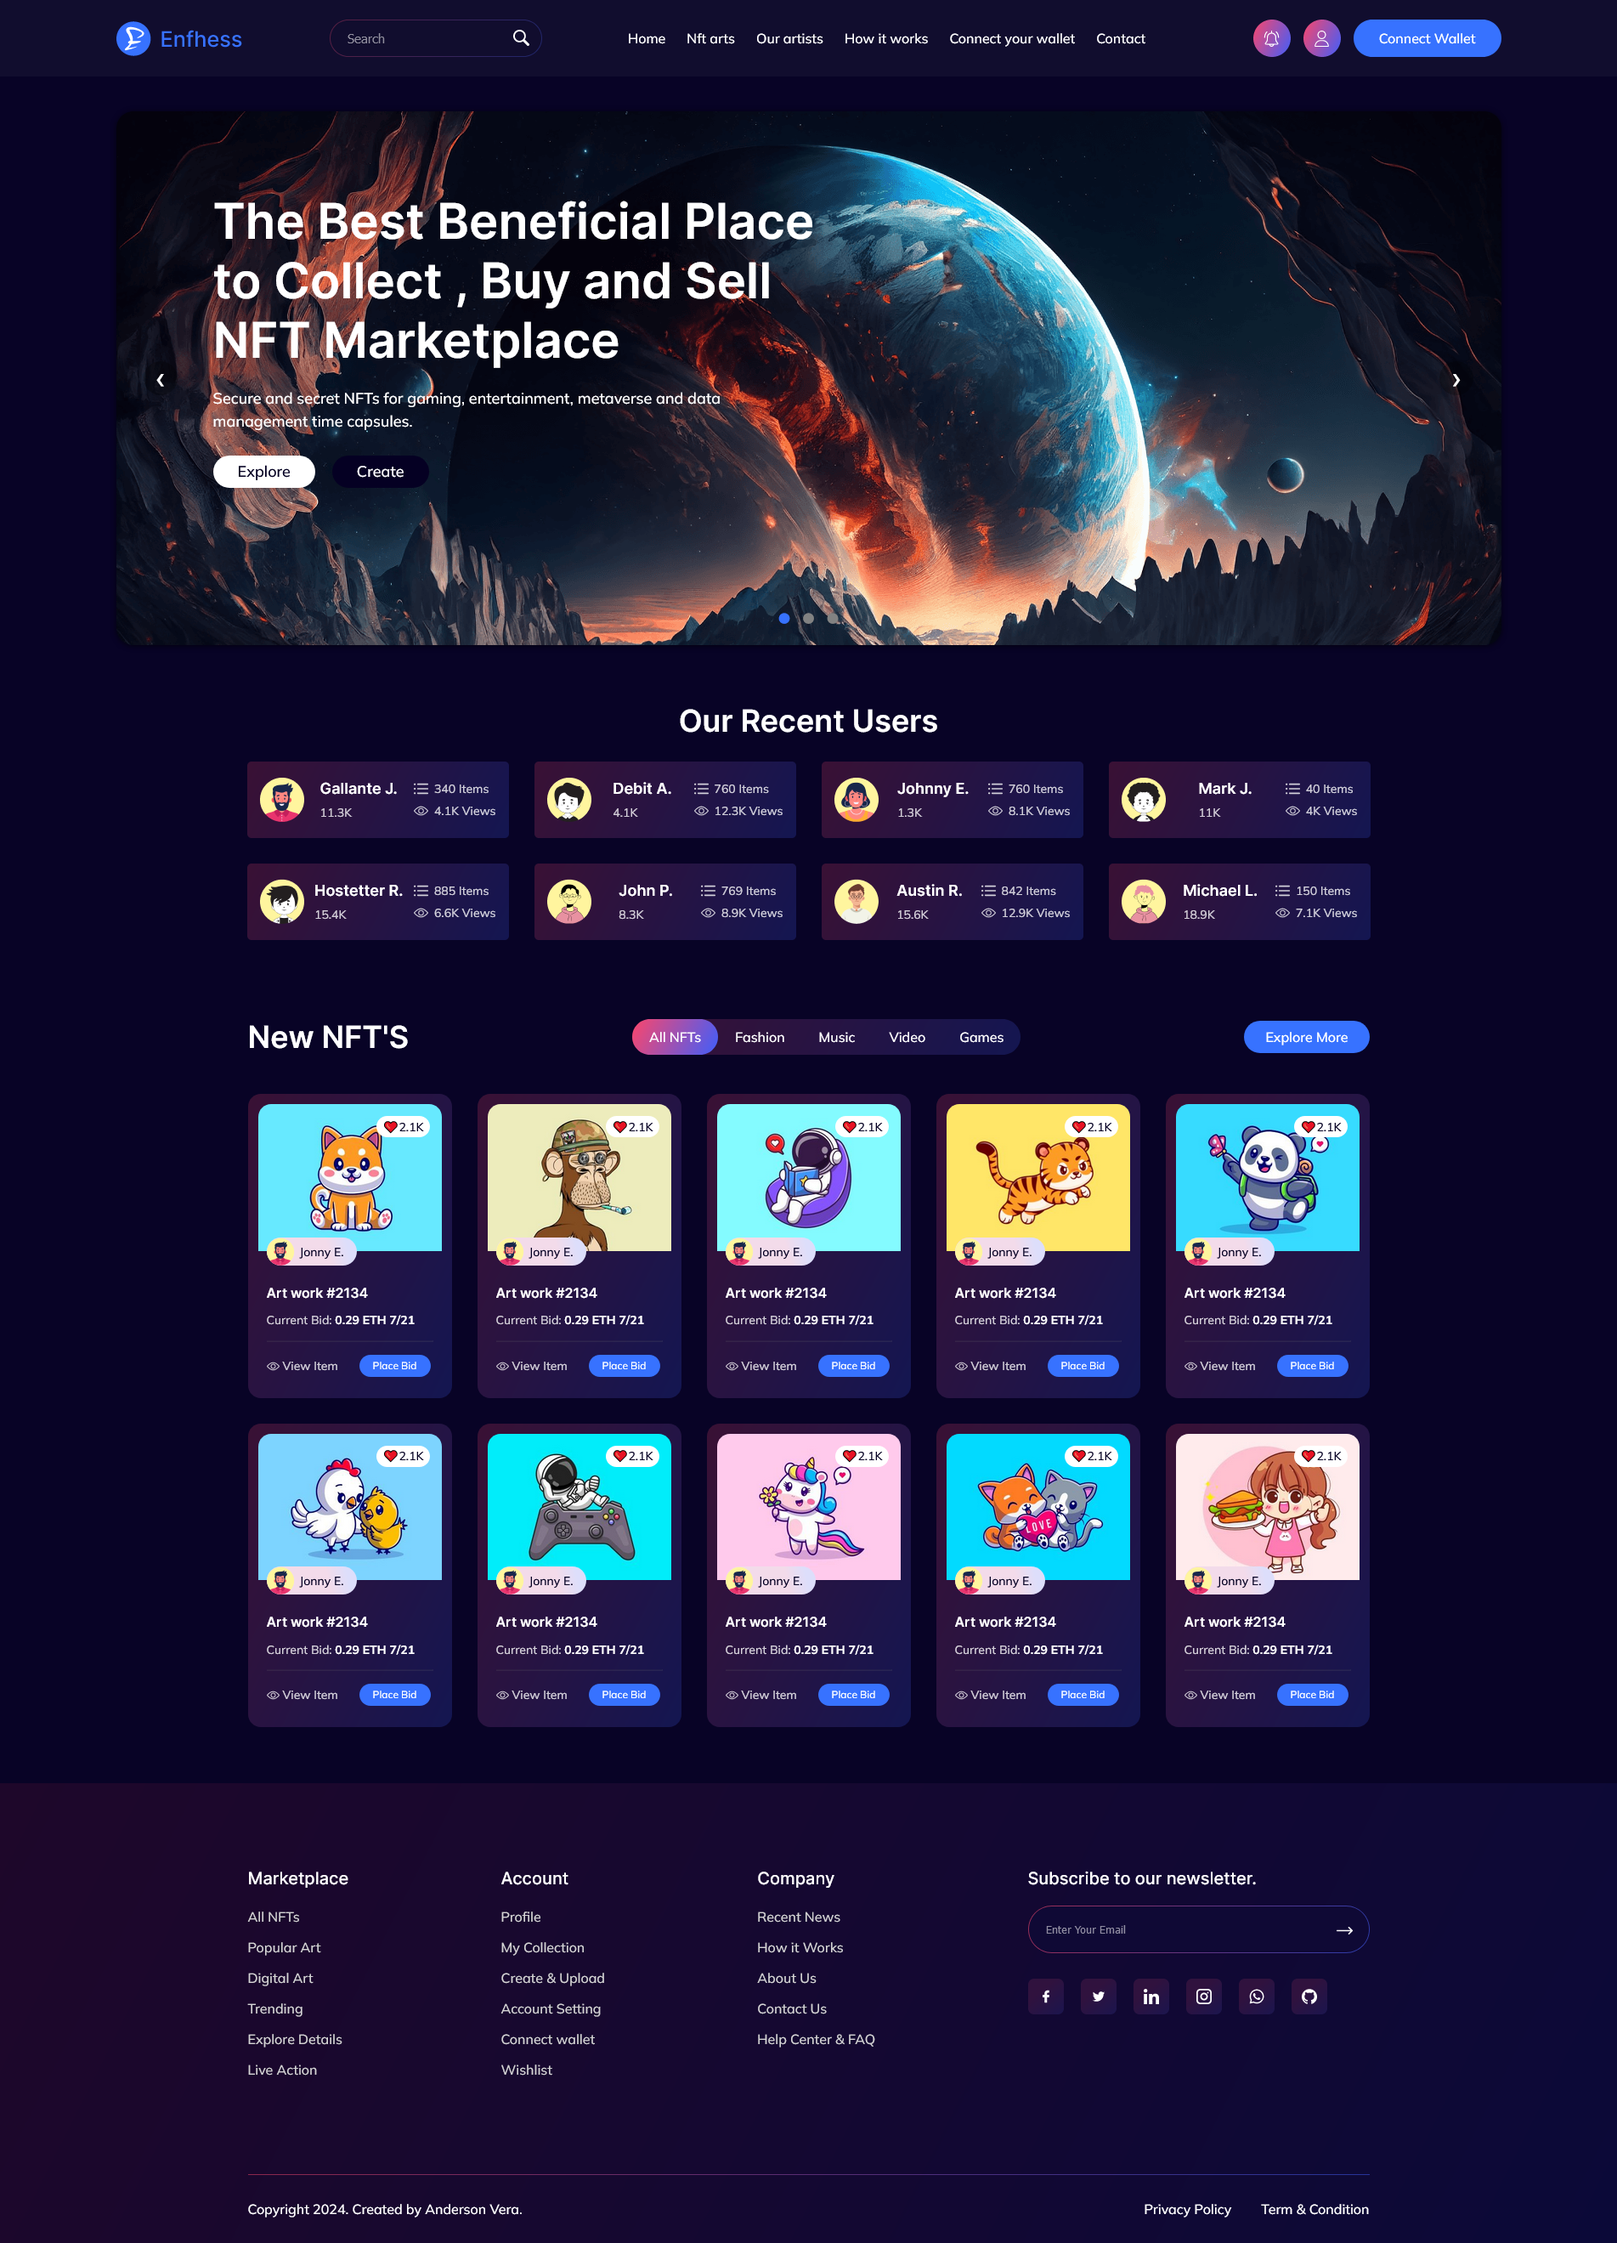
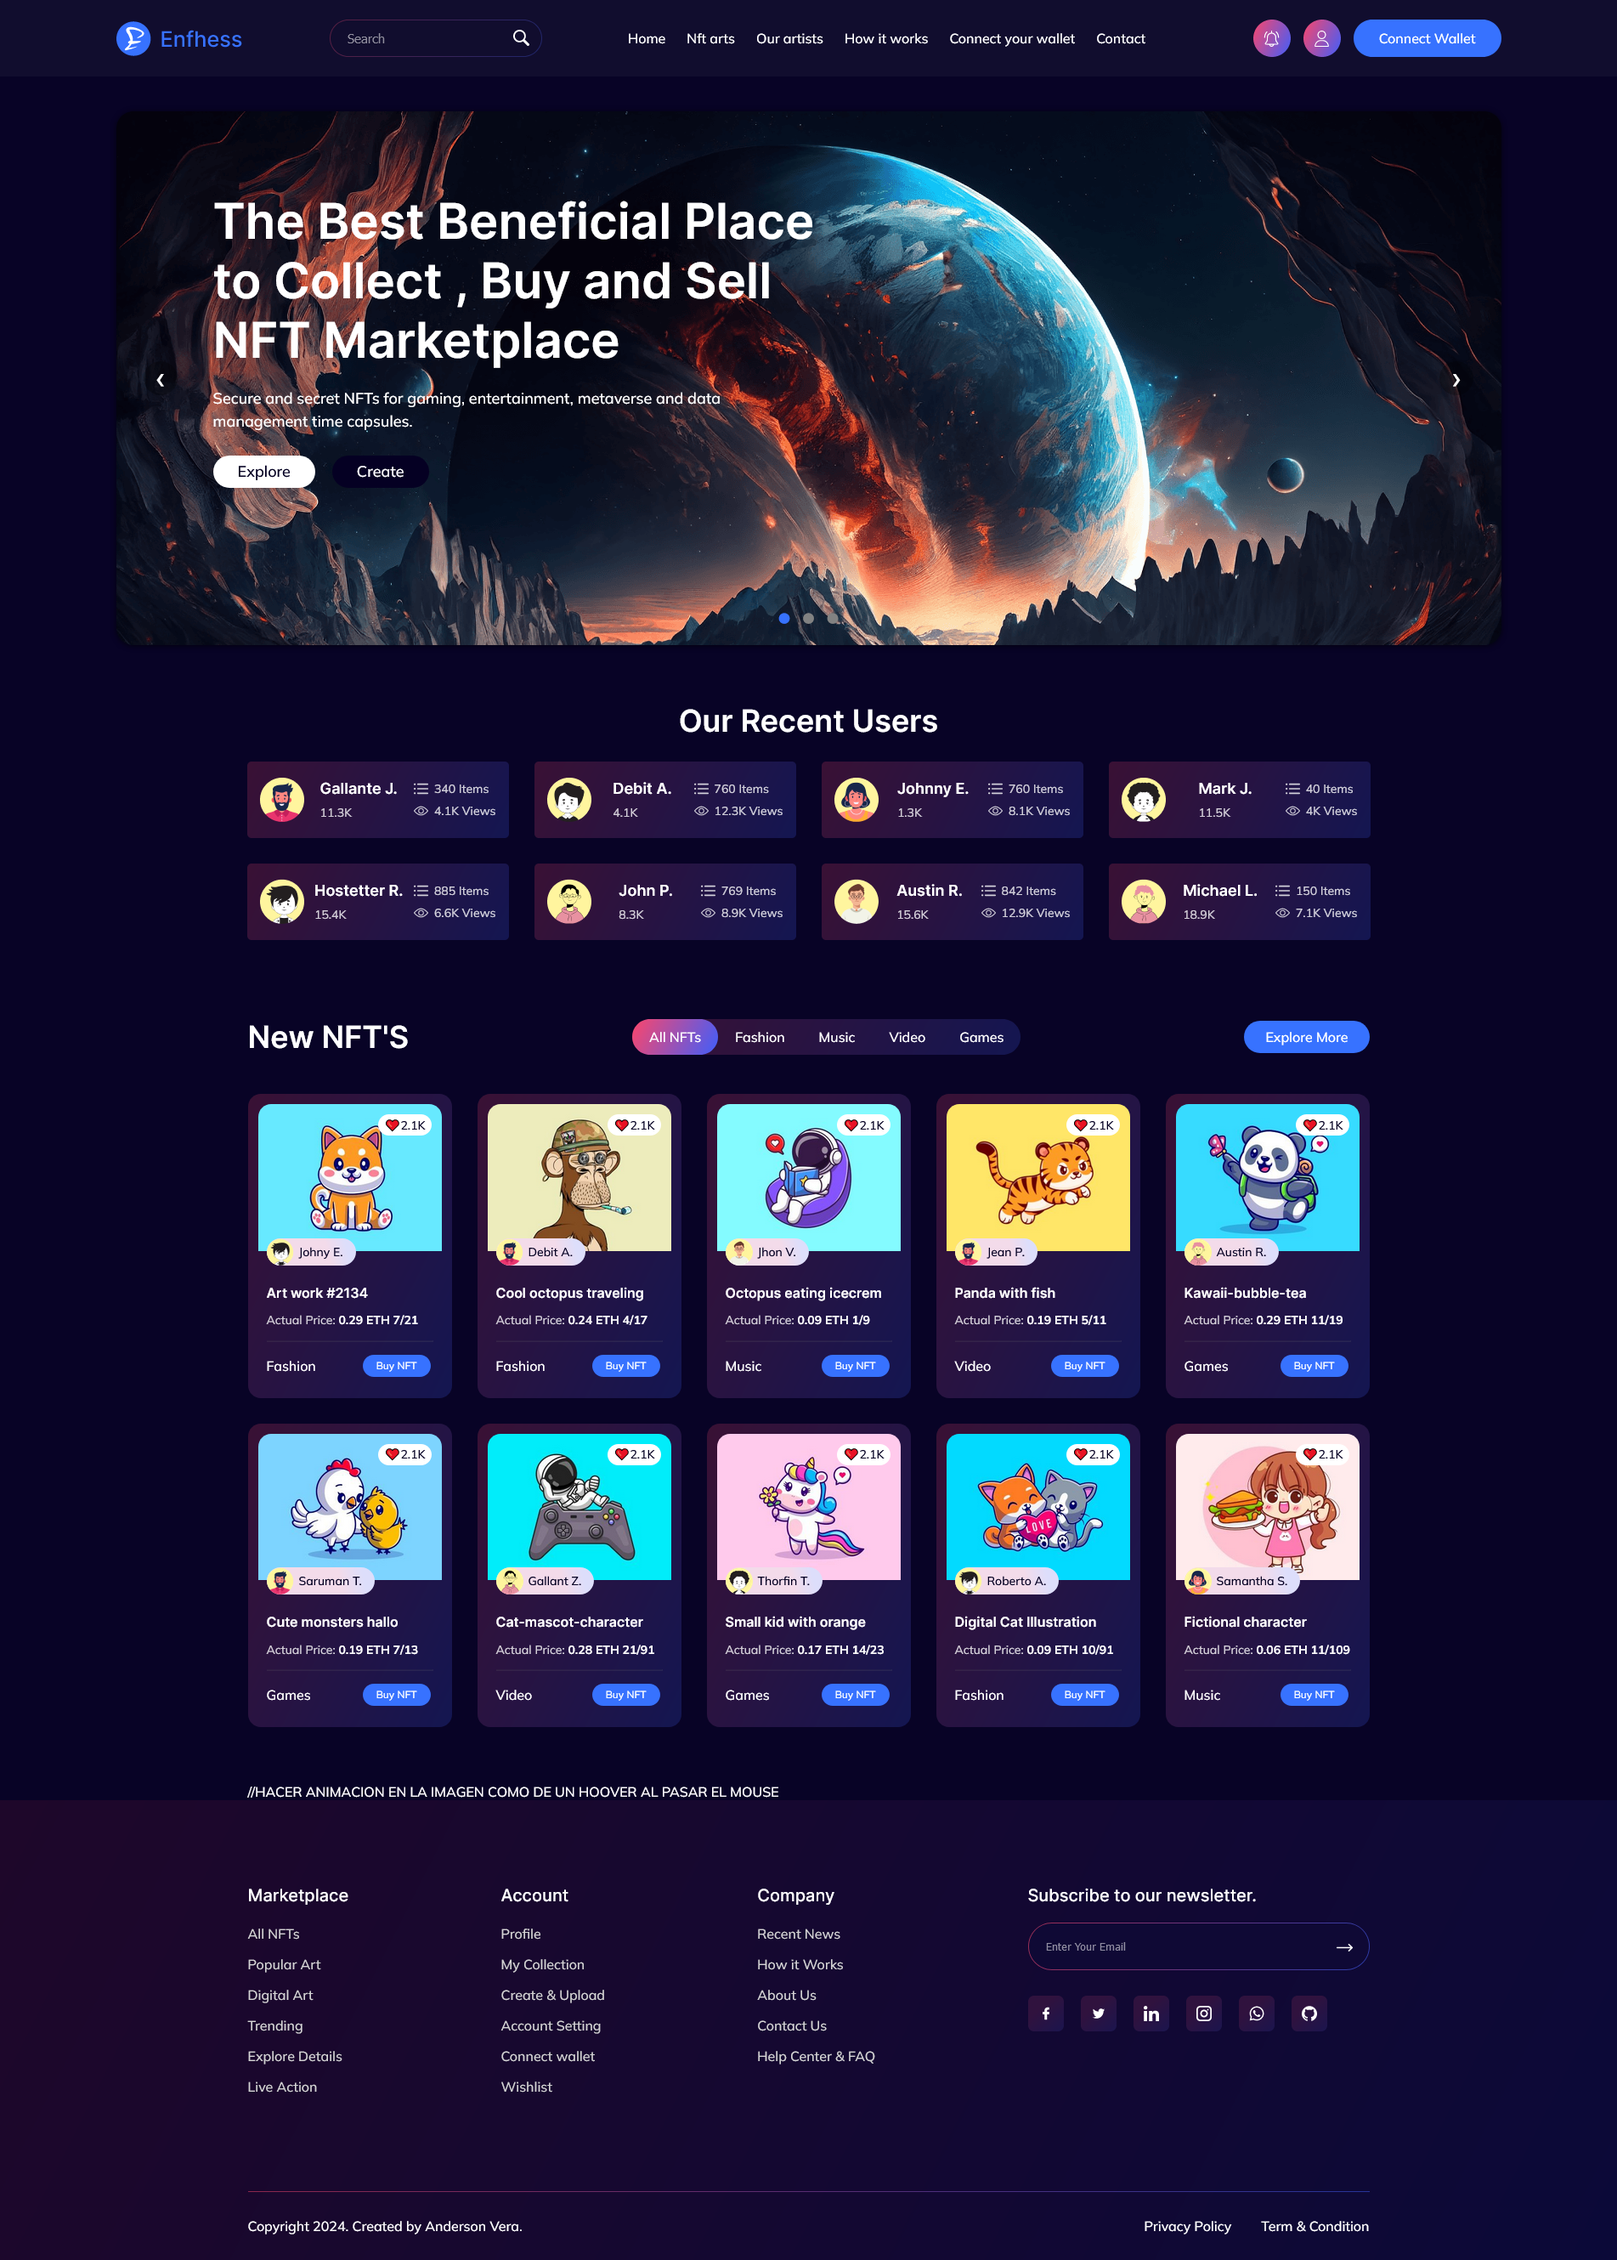
some modifications en recent users component

diff --git a/src/app/home/services/gallery-new-nfts.service.ts b/src/app/home/services/gallery-new-nfts.service.ts
@@ -8,14 +8,14 @@ export class GalleryNewNftsService {
   private images: NewNft[] = [
     { id: 1, title: 'Art work #2134', category: 'Fashion', url: '../../../../assets/1.jpeg', price: '0.29 ETH 7/21', user: 'Johny E.', avatar: '../../../../assets/avatar_13.png' },
     { id: 2, title: 'Cool octopus traveling', category: 'Fashion', url: '../../../../assets/2.jpeg', price: '0.24 ETH 4/17', user: 'Debit A.', avatar: '../../../../assets/avatar_12.png' },
-    { id: 3, title: 'Octopus eating icecrem', category: 'Music', url: '../../../../assets/3.jpeg', price: '0.09 ETH 1/9', user: 'Jhon V.', avatar: '../../../../assets/avatar_13.png' },
+    { id: 3, title: 'Octopus eating icecrem', category: 'Music', url: '../../../../assets/3.jpeg', price: '0.09 ETH 1/9', user: 'Jhon V.', avatar: '../../../../assets/avatar_36.png' },
     { id: 4, title: 'Panda with fish', category: 'Video', url: '../../../../assets/4.jpeg', price: '0.19 ETH 5/11', user: 'Jean P.', avatar: '../../../../assets/avatar_12.png' },
-    { id: 5, title: 'Kawaii-bubble-tea', category: 'Games', url: '../../../../assets/5.jpeg', price: '0.29 ETH 11/19', user: 'Austin R.', avatar: '../../../../assets/avatar_13.png' },
+    { id: 5, title: 'Kawaii-bubble-tea', category: 'Games', url: '../../../../assets/5.jpeg', price: '0.29 ETH 11/19', user: 'Austin R.', avatar: '../../../../assets/avatar_37.png' },
     { id: 6, title: 'Cute monsters hallo', category: 'Games', url: '../../../../assets/6.jpeg', price: '0.19 ETH 7/13', user: 'Saruman T.', avatar: '../../../../assets/avatar_12.png' },
-    { id: 7, title: 'Cat-mascot-character', category: 'Video', url: '../../../../assets/7.jpeg', price: '0.28 ETH 21/91', user: 'Gallant Z.', avatar: '../../../../assets/avatar_13.png' },
-    { id: 8, title: 'Small kid with orange', category: 'Games', url: '../../../../assets/8.jpeg', price: '0.17 ETH 14/23', user: 'Thorfin T.', avatar: '../../../../assets/avatar_12.png' },
+    { id: 7, title: 'Cat-mascot-character', category: 'Video', url: '../../../../assets/7.jpeg', price: '0.28 ETH 21/91', user: 'Gallant Z.', avatar: '../../../../assets/avatar_35.png' },
+    { id: 8, title: 'Small kid with orange', category: 'Games', url: '../../../../assets/8.jpeg', price: '0.17 ETH 14/23', user: 'Thorfin T.', avatar: '../../../../assets/avatar_33.png' },
     { id: 9, title: 'Digital Cat Illustration', category: 'Fashion', url: '../../../../assets/9.jpeg', price: '0.09 ETH 10/91', user: 'Roberto A.', avatar: '../../../../assets/avatar_13.png' },
-    { id: 10, title: 'Fictional character', category: 'Music', url: '../../../../assets/10.jpeg', price: '0.06 ETH 11/109', user: 'Samantha S.', avatar: '../../../../assets/avatar_12.png' },
+    { id: 10, title: 'Fictional character', category: 'Music', url: '../../../../assets/10.jpeg', price: '0.06 ETH 11/109', user: 'Samantha S.', avatar: '../../../../assets/avatar_32.png' },
   ];
 
   constructor() { }

diff --git a/src/app/home/components/recent-users/recent-users.component.ts b/src/app/home/components/recent-users/recent-users.component.ts
@@ -11,7 +11,7 @@ export class RecentUsersComponent {
     { name: 'Gallante J.', items: 340, elements: 11.3, views: 4.1, avatar: '../../../../assets/avatar_30.png' },
     { name: 'Debit A.', items: 760, elements: 4.1, views: 12.3, avatar: '../../../../assets/avatar_31.png' },
     { name: 'Johnny E.', items: 760, elements: 1.3, views: 8.1, avatar: '../../../../assets/avatar_32.png' },
-    { name: 'Mark J.', items: 40, elements: 11, views: 4, avatar: '../../../../assets/avatar_33.png' },
+    { name: 'Mark J.', items: 40, elements: 11.5, views: 4, avatar: '../../../../assets/avatar_33.png' },
     { name: 'Hostetter R.', items: 885, elements: 15.4, views: 6.6, avatar: '../../../../assets/avatar_34.png' },
     { name: 'John P.', items: 769, elements: 8.3, views: 8.9, avatar: '../../../../assets/avatar_35.png' },
     { name: 'Austin R.', items: 842, elements: 15.6, views: 12.9, avatar: '../../../../assets/avatar_36.png' },

diff --git a/src/app/home/components/recent-nft/recent-nft.component.css b/src/app/home/components/recent-nft/recent-nft.component.css
@@ -115,6 +115,11 @@ h2 {
   cursor: pointer;
 }
 
+.recent-nft__avatar img {
+  width: 32px;
+  height: auto;
+}
+
 .recent-nft__data {
   padding: 0 10px;
   margin-top: 35px;

diff --git a/src/app/home/components/recent-users/recent-users.component.css b/src/app/home/components/recent-users/recent-users.component.css
@@ -29,6 +29,7 @@ h2 {
   justify-content: space-between;
   padding: 15px;
   width: 308px;
+  cursor: pointer;
 }
 
 .recent-users__card h3 {

diff --git a/src/app/home/components/recent-nft/recent-nft.component.html b/src/app/home/components/recent-nft/recent-nft.component.html
@@ -35,3 +35,5 @@
     </div>
   </div>
 </div>
+
+//HACER ANIMACION EN LA IMAGEN COMO DE UN HOOVER AL PASAR EL MOUSE
